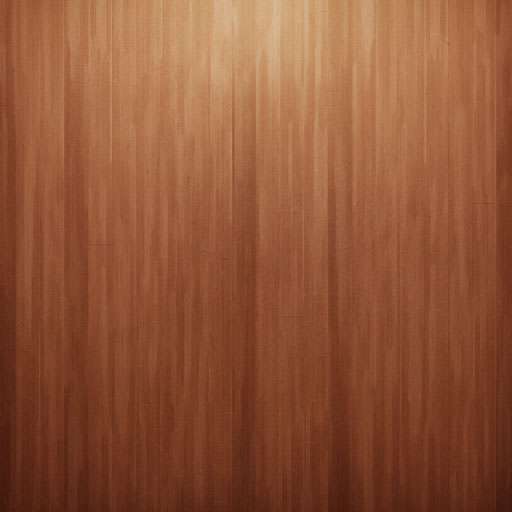
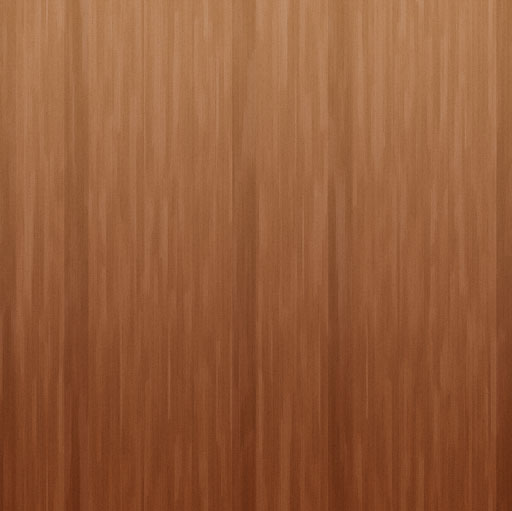
updates
updates

diff --git a/assets/css/basic-layout.css b/assets/css/basic-layout.css
@@ -1,0 +1,67 @@
+.clearfix {
+  *zoom: 1;
+}
+.clearfix:before,
+.clearfix:after {
+  display: table;
+  content: "";
+  line-height: 0;
+}
+.clearfix:after {
+  clear: both;
+}
+.hide-text {
+  font: a;
+  color: transparent;
+  text-shadow: none;
+  background-color: transparent;
+  border: 0;
+}
+/*
+// CSS Webkit Image-Set for retina image replacement
+// ---------------------------------------------------------
+.image-set (@imageSource, @imageSource1x, @imageSource2x){
+	background-image: url(@{imageSource}); 
+	background-image: -webkit-image-set( url(@{imageSource}) ~ "1x", url(@{imageSource2x}) ~ "2x");
+}
+*/
+.input-block-level {
+  display: block;
+  width: 100%;
+  min-height: 30px;
+  -webkit-box-sizing: border-box;
+  -moz-box-sizing: border-box;
+  box-sizing: border-box;
+}
+body {
+  background: #612816 url("/assets/img/bg2-wood@1x.jpg") repeat 0 0;
+  overflow-y: visible;
+}
+#viewport,
+#page,
+.push {
+  background-color: transparent;
+}
+.wrapper {
+  background: transparent url("/assets/img/bg-lighting@1x.jpg") repeat-x;
+  overflow-y: visible;
+}
+#primary-container {
+  background-color: transparent;
+}
+@media (max-width: 767px) {
+  .wrapper {
+    background: #000000 url("/assets/img/bg2-wood@1x.jpg") repeat 0 0;
+  }
+}
+@media only screen and (-webkit-min-device-pixel-ratio: 1.5), only screen and (min-device-pixel-ratio: 1.5) {
+  /* Styles */
+  body {
+    background: url("/assets/img/bg2-wood@2x.jpg") repeat;
+    background-size: 203px 317px;
+  }
+  .wrapper {
+    background: url("/assets/img/bg-lighting@2x.jpg") repeat-x;
+    background-size: 512px 511px;
+  }
+}

diff --git a/assets/css/style.css b/assets/css/style.css
@@ -147,7 +147,7 @@ body::after {
   background-color: #ffffff;
 }
 header {
-  min-height: 100px;
+  min-height: 80px;
   vertical-align: middle;
   padding-right: 20px;
   padding-left: 20px;
@@ -175,6 +175,8 @@ footer {
   color: #999999;
   height: 40px;
   background-color: #ffffff;
+  padding-bottom: 20px;
+  padding-top: 20px;
 }
 /* Fixed Footer Bottom */
 /* Links */
@@ -848,8 +850,7 @@ ul.headshots li img {
 .paper {
   padding: 20px 30px;
   height: auto;
-  margin-bottom: 20px;
-  margin-top: 40px;
+  margin: 80px 40px 20px 40px;
   line-height: 15px;
   color: #000000;
   background: #ffffff;
@@ -1428,6 +1429,10 @@ p.contactlead {
     margin: 0px -10px 0px -10px;
     padding: 0px 10px 0px 10px;
   }
+  footer {
+    padding-bottom: 20px;
+    padding-top: 20px;
+  }
   header a.brand {
     margin-top: 0px;
   }
@@ -1481,6 +1486,7 @@ p.contactlead {
   }
   .paper {
     padding: 20px 10px;
+    margin: 40px 0px 20px 0px;
   }
   a.plus {
     display: block;

diff --git a/assets/less/basic-layout.less b/assets/less/basic-layout.less
@@ -1,0 +1,43 @@
+// Core variables and mixins
+@import "values.less"; // Modify this for custom colors, font-sizes, etc
+@import "mix.less";
+body {
+		background: #612816 url("/assets/img/bg2-wood@1x.jpg") repeat 0 0;
+		overflow-y: visible;
+	}
+	
+#viewport, #page, .push {
+	background-color: transparent;
+}
+
+.wrapper {
+	background: transparent url("/assets/img/bg-lighting@1x.jpg") repeat-x;
+	overflow-y: visible;
+}
+
+#primary-container {
+	background-color: transparent;
+}
+
+@media (max-width: 767px) {
+	.wrapper {
+	background: black url("/assets/img/bg2-wood@1x.jpg") repeat 0 0;
+	}
+}
+
+@media 
+only screen and (-webkit-min-device-pixel-ratio : 1.5),
+only screen and (min-device-pixel-ratio : 1.5) {
+/* Styles */
+body {
+		background: url("/assets/img/bg2-wood@2x.jpg") repeat;
+		background-size: 203px 317px;
+	}
+	
+.wrapper {
+	background: url("/assets/img/bg-lighting@2x.jpg") repeat-x;
+	background-size: 512px 511px;
+}
+
+
+}

diff --git a/portfolio/index.html b/portfolio/index.html
@@ -40,6 +40,7 @@
 	<link href="/assets/css/main.css" rel="stylesheet">
 	<link href="/assets/css/fluid.css" rel="stylesheet">
 	<link href="/assets/css/style.css" rel="stylesheet">
+	<link href="/assets/css/basic-layout.css" rel="stylesheet">
 	
 	<!-- Le HTML5 shim, for IE6-8 support of HTML5 elements -->
 	<!--[if lt IE 9]>
@@ -113,7 +114,8 @@
 			</header>
 			
 			<div class="container">	
-				<hr>
+				<!--
+<hr>
 				<div class="crumb">
 					<div class="row-fluid">
 						<div class="span12">
@@ -122,6 +124,7 @@
 					</div>
 				</div>
 				<hr>
+-->
 			
 				<div class="canvas fullcanvas animated fadeIn" id="foliocanvasone">
 					<div class="row-fluid">

diff --git a/index.html b/index.html
@@ -177,7 +177,7 @@
 								<div data-src="/assets/img/glasses-d@2x.jpg" data-media="(min-width: 768px) and (-webkit-min-device-pixel-ratio: 2.0),(min-device-pixel-ratio: 2.0)"></div>
 								<noscript><img src="/assets/img/glasses-d@2x.jpg" alt="Glasses"></noscript>
 							</div>
-							<h3>Résumé "Attached"</h3>
+							<h3>Résumé &ldquo;Attached&rdquo;</h3>
 							<p>It makes all paper résumés envious</p>
 							<p>I attached a copy of my résumé for you to read over. It has all the basic stuff. I left off the section that details all my super powers though.</p>
 							<a href="/resume" class="btn btn-primary btn-small">Read it over</a>

diff --git a/resume/index.html b/resume/index.html
@@ -40,12 +40,7 @@
 	<link href="/assets/css/main.css" rel="stylesheet">
 	<link href="/assets/css/fluid.css" rel="stylesheet">
 	<link href="/assets/css/style.css" rel="stylesheet">
-	
-	<style>
-	#page, .wrapper, .push, footer {
-		background: #e6e6e6 url("/assets/img/bg-woodsl@1x.png") repeat;
-	}
-	</style>
+	<link href="/assets/css/basic-layout.css" rel="stylesheet">
 	
 	<!-- Le HTML5 shim, for IE6-8 support of HTML5 elements -->
 	<!--[if lt IE 9]>
@@ -115,7 +110,8 @@
 				</div>
 			</header>
 			
-			<div class="container">
+			
+			<div class="container" id="primary-container">
 				<!--
 <hr>
 				<div class="crumb">

diff --git a/assets/less/pages.less b/assets/less/pages.less
@@ -43,7 +43,7 @@ body::after {
 }
 
 header {
-	min-height: 100px;
+	min-height: 80px;
 	vertical-align: middle;
 	padding-right: 20px;
 	padding-left: 20px;
@@ -75,6 +75,8 @@ footer {
 	color: @grayLight;
 	height: 40px;
 	background-color: @bodyBackground;
+	padding-bottom: 20px;
+	padding-top: 20px;
 }
 
 /* Fixed Footer Bottom */
@@ -804,8 +806,7 @@ ul.headshots li img {
 .paper {
 	padding:20px 30px;
 	height:auto;
-	margin-bottom:20px;
-	margin-top:40px;
+	margin: 80px 40px 20px 40px;
 	line-height:15px;
 	color: @black;
 	background:@white;

diff --git a/assets/css/styles.css b/assets/css/styles.css
@@ -1946,6 +1946,10 @@ a.backtotop:hover {
     margin: 0px -10px 0px -10px;
     padding: 0px 10px 0px 10px;
   }
+  footer {
+    padding-bottom: 20px;
+    padding-top: 20px;
+  }
   header a.brand {
     margin-top: 0px;
   }
@@ -1999,6 +2003,7 @@ a.backtotop:hover {
   }
   .paper {
     padding: 20px 10px;
+    margin: 40px 0px 20px 0px;
   }
   a.plus {
     display: block;

diff --git a/assets/css/style-home.css b/assets/css/style-home.css
@@ -627,6 +627,10 @@ a.btn-cta {
     margin: 0px -10px 0px -10px;
     padding: 0px 10px 0px 10px;
   }
+  footer {
+    padding-bottom: 20px;
+    padding-top: 20px;
+  }
   header a.brand {
     margin-top: 0px;
   }
@@ -680,6 +684,7 @@ a.btn-cta {
   }
   .paper {
     padding: 20px 10px;
+    margin: 40px 0px 20px 0px;
   }
   a.plus {
     display: block;

diff --git a/assets/less/queries.less b/assets/less/queries.less
@@ -32,6 +32,10 @@ header, footer, #page {
 	padding: 0px 10px 0px 10px;
 }
 
+footer {
+	padding-bottom: 20px;
+	padding-top: 20px;
+}
 header a.brand {
 	margin-top: 0px;
 }
@@ -87,6 +91,7 @@ crumb h1 {
 
 .paper {
 	padding: 20px 10px;
+	margin: 40px 0px 20px 0px;
 }
 
 a.plus {
